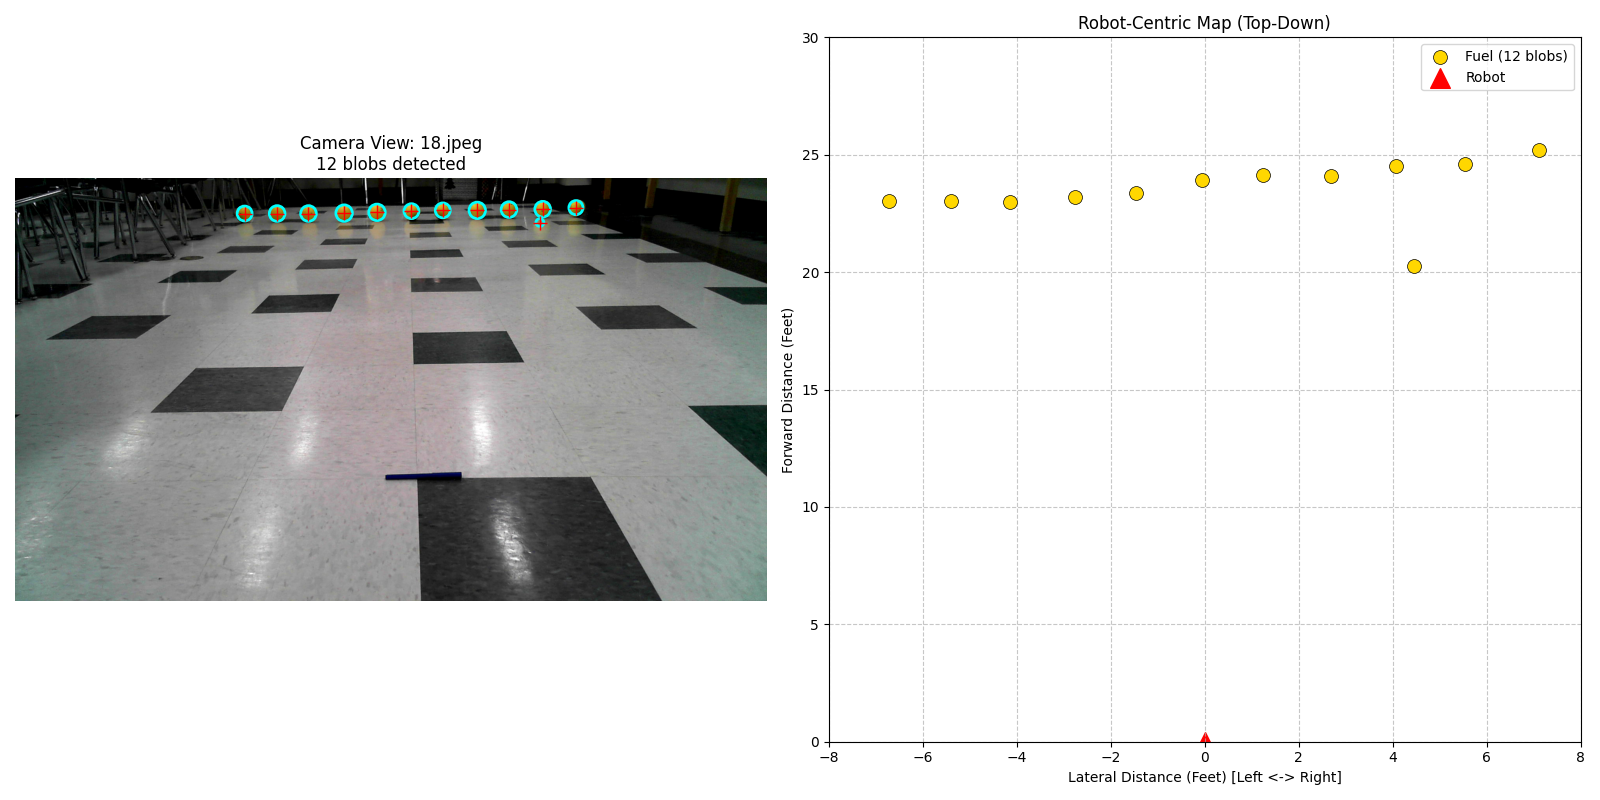
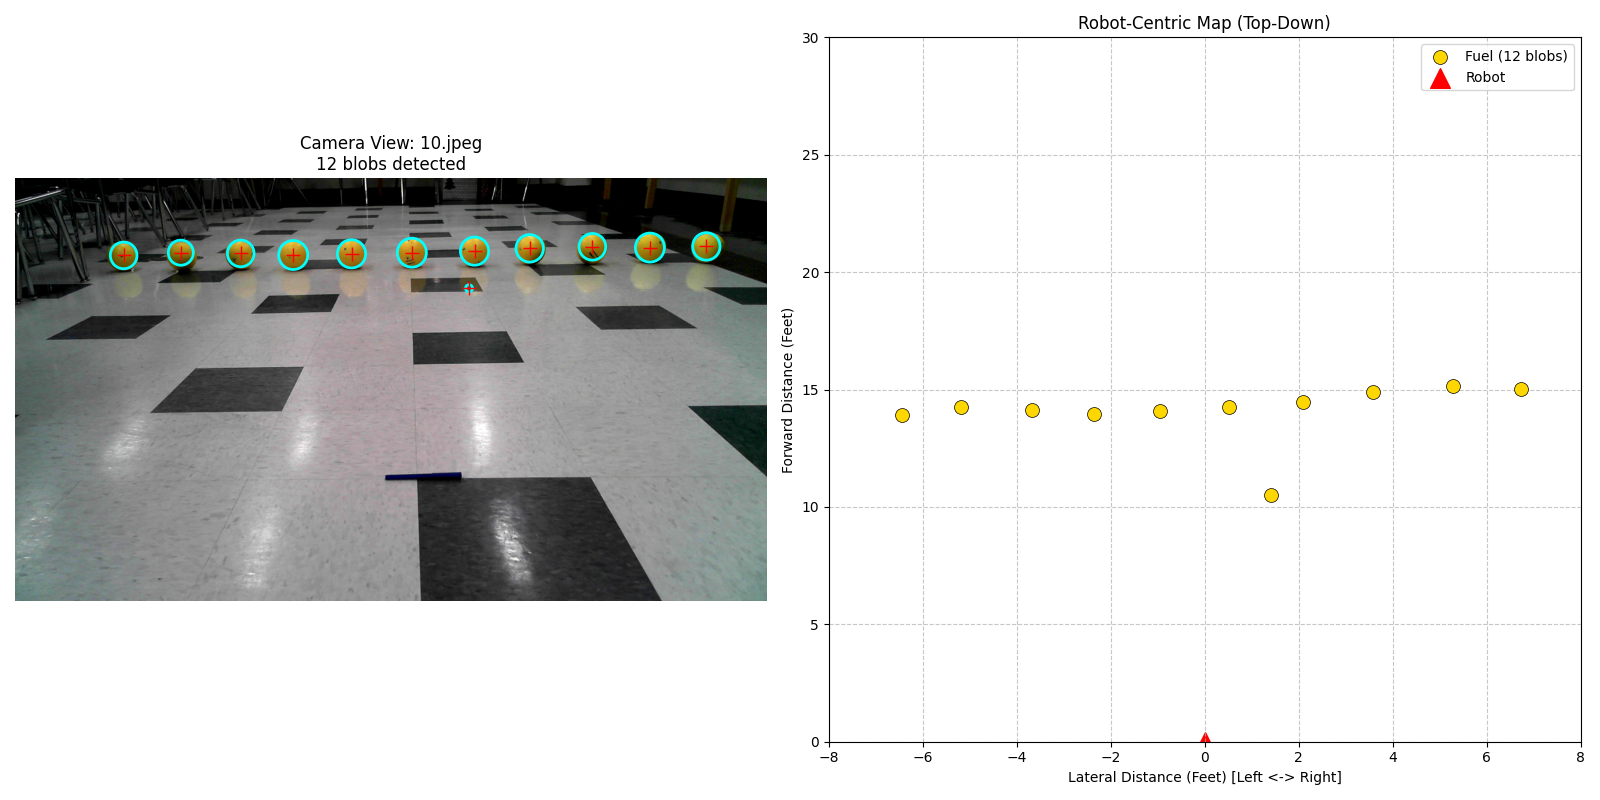
Daniel, Daniel, so beautiful and granial, seek your answers within this commit; within this store regressors galore abound with illusory precision. Unbind your withheld hand, and you will come to find, that we are all one mind; capable of all thats committed and all programmable. As bright I am, I k

diff --git a/main.py b/main.py
@@ -109,18 +109,18 @@ def draw_2d_map(fuel_offsets):
     
 
 def processImg(img):
-    results = model.predict(img, conf=0.15, verbose=False)
+    results = model.predict(img, conf=0.25, verbose=False)
 
     fuel_offsets = []
 
     for result in results:
         for box in result.boxes:
             x1, y1, x2, y2 = box.xyxy[0].tolist()
-            
+
             cx_px = int((x1 + x2) / 2)
             cy_px = int((y1 + y2) / 2)
-
-            wx, wz = get_3d_coords(cx_px, cy_px, 1920, 1080)
+            print(cx_px, cy_px)
+            wx, wz = get_3d_coords(cx_px, cy_px, 640, 480)
 
             if 0.5 < wz < 35 and -10 < wx < 10:
                 fuel_offsets.append((wx, wz))
@@ -134,7 +134,7 @@ def processImg(img):
                                    markerType=cv2.MARKER_CROSS, markerSize=10, thickness=2)
                     
                     # Label with distance
-                    cv2.putText(img, f"{wz:.1f}ft", (int(x1), int(y1) - 10),
+                    cv2.putText(img, f"{wz:.1f}ft {wx:.1f}ftx", (int(x1), int(y1) - 10),
                                 cv2.FONT_HERSHEY_SIMPLEX, 0.5, (0, 255, 0), 1)
 
     if DEBUG:

diff --git a/calibrate/4_test.py b/calibrate/4_test.py
@@ -15,15 +15,15 @@ def get_3d_coords(pixel_x, pixel_y, w, h):
     ny = pixel_y - cy
 
     # Rotate
-    rx = (nx * math.cos(angle_rad) - ny * math.sin(angle_rad) + cx - w/2)/(w/2)
-    ry = (nx * math.sin(angle_rad) + ny * math.cos(angle_rad) + cy)/(h)
+    rx = (pixel_x - w/2)/(w/2)
+    ry = (pixel_y)/(h)
 
     # 2. Calculate Distance Z (feet)
-    z = 3.82850530 / (ry + 0.07729443) + -0.74802465
+    z = 3.70066404 / (ry + 0.07251706) + -0.59392381
 
     # 3. Calculate Horizontal X (feet)
     # Formula: X = Z * (pixel_x * m + b)
-    x = z * (rx * 0.65112527 + (-0.03784812))
+    x = z * (rx * 0.65101858)
 
     return x, z
 # =========================================================
@@ -36,8 +36,8 @@ import random
 import os
 
 def run_test():
-    images = glob.glob("./0_sourceImg/18.jpeg")
-    img = cv2.imread("./0_sourceImg/18.jpeg")
+    images = glob.glob("./0_sourceImg/10.jpeg")
+    img = cv2.imread("./0_sourceImg/10.jpeg")
     h, w = img.shape[:2]
     if not images: return
 

diff --git a/calibrate/3_quadraticRegressionFormulas.py b/calibrate/3_quadraticRegressionFormulas.py
@@ -46,7 +46,8 @@ def draw_calibration_gui(angle):
     center_x = np.mean(all_points[:, 2])
     center_y = np.mean(all_points[:, 3])
 
-    pts = rotate_points(all_points, angle, center_x, center_y)
+    pts = all_points
+    #rotate_points(all_points, angle, center_x, center_y)
 
     # Scale points for display
     display_scale = 0.5
@@ -102,7 +103,6 @@ z_vals = final_pts[:, 0]
 
 norm_x_vals = (final_pts[:, 2] - (w / 2)) / (w / 2)
 y_pixels = (final_pts[:, 3] * 1) / (h)
-print(y_pixels)
 
 # 3. Fit Distance Z
 # p0: [a, b, c]. For raw pixels, 'a' needs to be a large number (like 5000)
@@ -115,7 +115,8 @@ except:
     a_fit, b_fit, c_fit = 0, 0, 0
 
 # 4. Horizontal Regression: X_world = Z * (pixel_x * m + b)
-x_world = final_pts[:, 1] - 5.0  # Center is ID 5
+x_world = final_pts[:, 1]  - 5 # Center is ID 5
+print(x_world)
 x_ratio = x_world / z_vals
 x_coeffs = np.polyfit(norm_x_vals, x_ratio, 1)  # Linear fit
 x_m, x_b = x_coeffs

diff --git a/get_3d_coords.py b/get_3d_coords.py
@@ -8,14 +8,14 @@ def get_3d_coords(pixel_x, pixel_y, w, h):
     ny = pixel_y - cy
 
     # Rotate
-    rx = (pixel_x - (w/2))/(w/2)
-    ry = (pixel_y)/(h)
+    rx = (nx * math.cos(angle_rad) - ny * math.sin(angle_rad) + cx - w/2)/(w/2)
+    ry = (nx * math.sin(angle_rad) + ny * math.cos(angle_rad) + cy)/h
 
     # 2. Calculate Distance Z (feet)
-    z = 3.82850530 / (ry + 0.07729443) + -0.74802465
+    z = 3.82850530 / (ry + 0.07729443) + -2.0802465
 
     # 3. Calculate Horizontal X (feet)
     # Formula: X = Z * (pixel_x * m + b)
-    x = z * (rx * 0.65112527)
+    x = z * (rx * 0.50112527)
 
     return x, z
